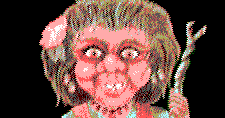
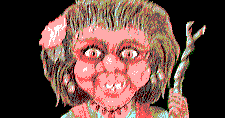
Still more fixes to l9bitmap.py

Changed region(s): [[0.1556, 0.0, 0.9333, 1.0], [0.2178, 0.178, 0.2489, 0.2034], [0.1556, 0.3305, 0.1867, 0.3559]]

diff --git a/l9bitmap.py b/l9bitmap.py
@@ -444,10 +444,15 @@ def _bitmap_pc1_decode(filename, x, y):
     if y+max_y > _bitmap.height:
         max_y = _bitmap.height-y
 
+    p = 0
+    index = 0
     for yi in range(max_y):
         for xi in range(max_x):
-            _bitmap.bitmap[x + xi][y + yi] = (data[23 +((yi * max_x) // 2)
-                + (xi // 2)] >> ((1 - (xi & 1)) * 4)) & 0x0f
+            _bitmap.bitmap[x + xi][y + yi] = (data[23 + index]
+                >> ((1 - p) * 4)) & 0x0f
+            p = p ^ 1
+            if (p == 0):
+                index = index + 1
 
     _bitmap.npalette = 16
     for i in range(16):
